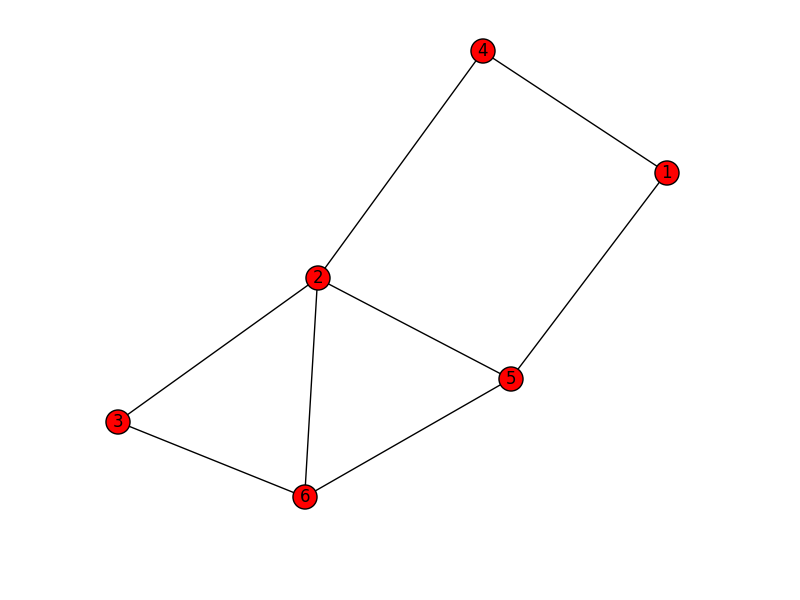
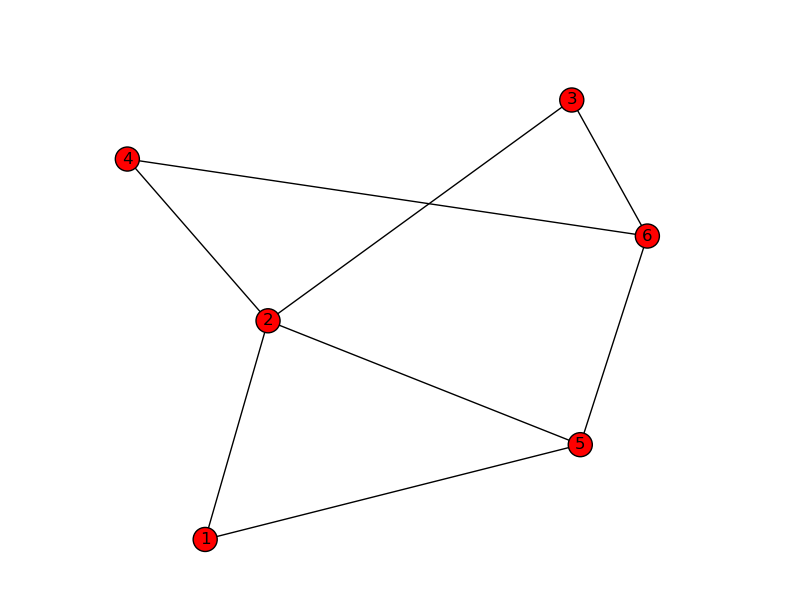
update rewiring algorithm

diff --git a/program/rewire.py b/program/rewire.py
@@ -2,53 +2,36 @@ from __future__ import division
 import random
 import networkx as nx
 
-def rewire(G):
-	deg_diff = dict(zip(G.edges_iter(), [abs(G.degree(e[0])-G.degree(e[1])) for e in G.edges_iter()]))
-
-	# choose first edge from degree difference
-	prob_total = 0
-	rvalue = random.uniform(0, sum(deg_diff.values()))
-	for key, value in deg_diff.items():
-		prob_total += value
-		if rvalue < prob_total:
-			u,v = key
-			break
-
-	edge_prob = {}
-	for e in G.edges_iter():
-		for x,y in (e, reversed(e)): # try two pairs
-			# omit same vertex
-			if x in (u,v) or y in (u,v): continue
-			# omit parallel edge
-			if x in G[u] or y in G[v]: continue
-
-			# swap anyway
-			#G.remove_edges_from([(u,v),(x,y)])
-			#G.add_edges_from([(u,x),(v,y)])
-			G.remove_edge(u, v); G.remove_edge(x, y)
-			G.add_edge(u, x); G.add_edge(v, y)
-			# then check connectivity
-			can_swap = nx.has_path(G, u, v)
+def rewire(G, max_trial=1000):
+	for _ in range(max_trial):
+		deg_diff = dict(zip(G.edges_iter(), [abs(G.degree(e[0])-G.degree(e[1])) for e in G.edges_iter()]))
+		# choose two links from degree difference
+		swap_edges = []
+		for __ in range(2):
+			prob_total = 0
+			rvalue = random.uniform(0, sum(deg_diff.values()))
+			for key, value in deg_diff.items():
+				prob_total += value
+				if rvalue < prob_total:
+					swap_edges.append(key)
+					break
+		(u,v),(x,y) = swap_edges
+		if random.uniform(0,1) < 0.5: x,y = y,x
+		
+		# check if same vertex
+		if x in (u,v) or y in (u,v): continue
+		# check if parallel edge
+		if x in G[u] or y in G[v]: continue
+		
+		# simulate swap
+		G.remove_edges_from([(u,v),(x,y)])
+		G.add_edges_from([(u,x),(v,y)])
+		# then check connectivity
+		can_swap = nx.has_path(G, u, v)
+		if nx.has_path(G, u, v):
+			return ((u,v),(x,y))
+		else:
 			# undo swapping
-			#G.remove_edges_from([(u,x),(v,y)])
-			#G.add_edges_from([(u,v),(x,y)])
-			G.add_edge(u, v); G.add_edge(x, y)
-			G.remove_edge(u, x); G.remove_edge(v, y)
-			# calculate score
-			if can_swap:
-				score = abs(G.degree(u)-G.degree(x)) + abs(G.degree(v)-G.degree(y))
-				edge_prob[(x,y)] = 1 / score if score else 1
+			G.add_edges_from([(u,v),(x,y)])
+			G.remove_edges_from([(u,v),(v,y)])
 
-	if len(edge_prob.keys()) == 0: return None
-
-	prob_total = 0
-	rvalue = random.uniform(0, sum(edge_prob.values()))
-	for key, value in edge_prob.items():
-		prob_total += value
-		if rvalue < prob_total:
-			x, y = key
-			#G.remove_edges_from([(u,v),(x,y)])
-			#G.add_edges_from([(u,x),(v,y)])
-			G.remove_edge(u, v); G.remove_edge(x, y)
-			G.add_edge(u, x); G.add_edge(v, y)
-			return ((u, v),(x, y))
